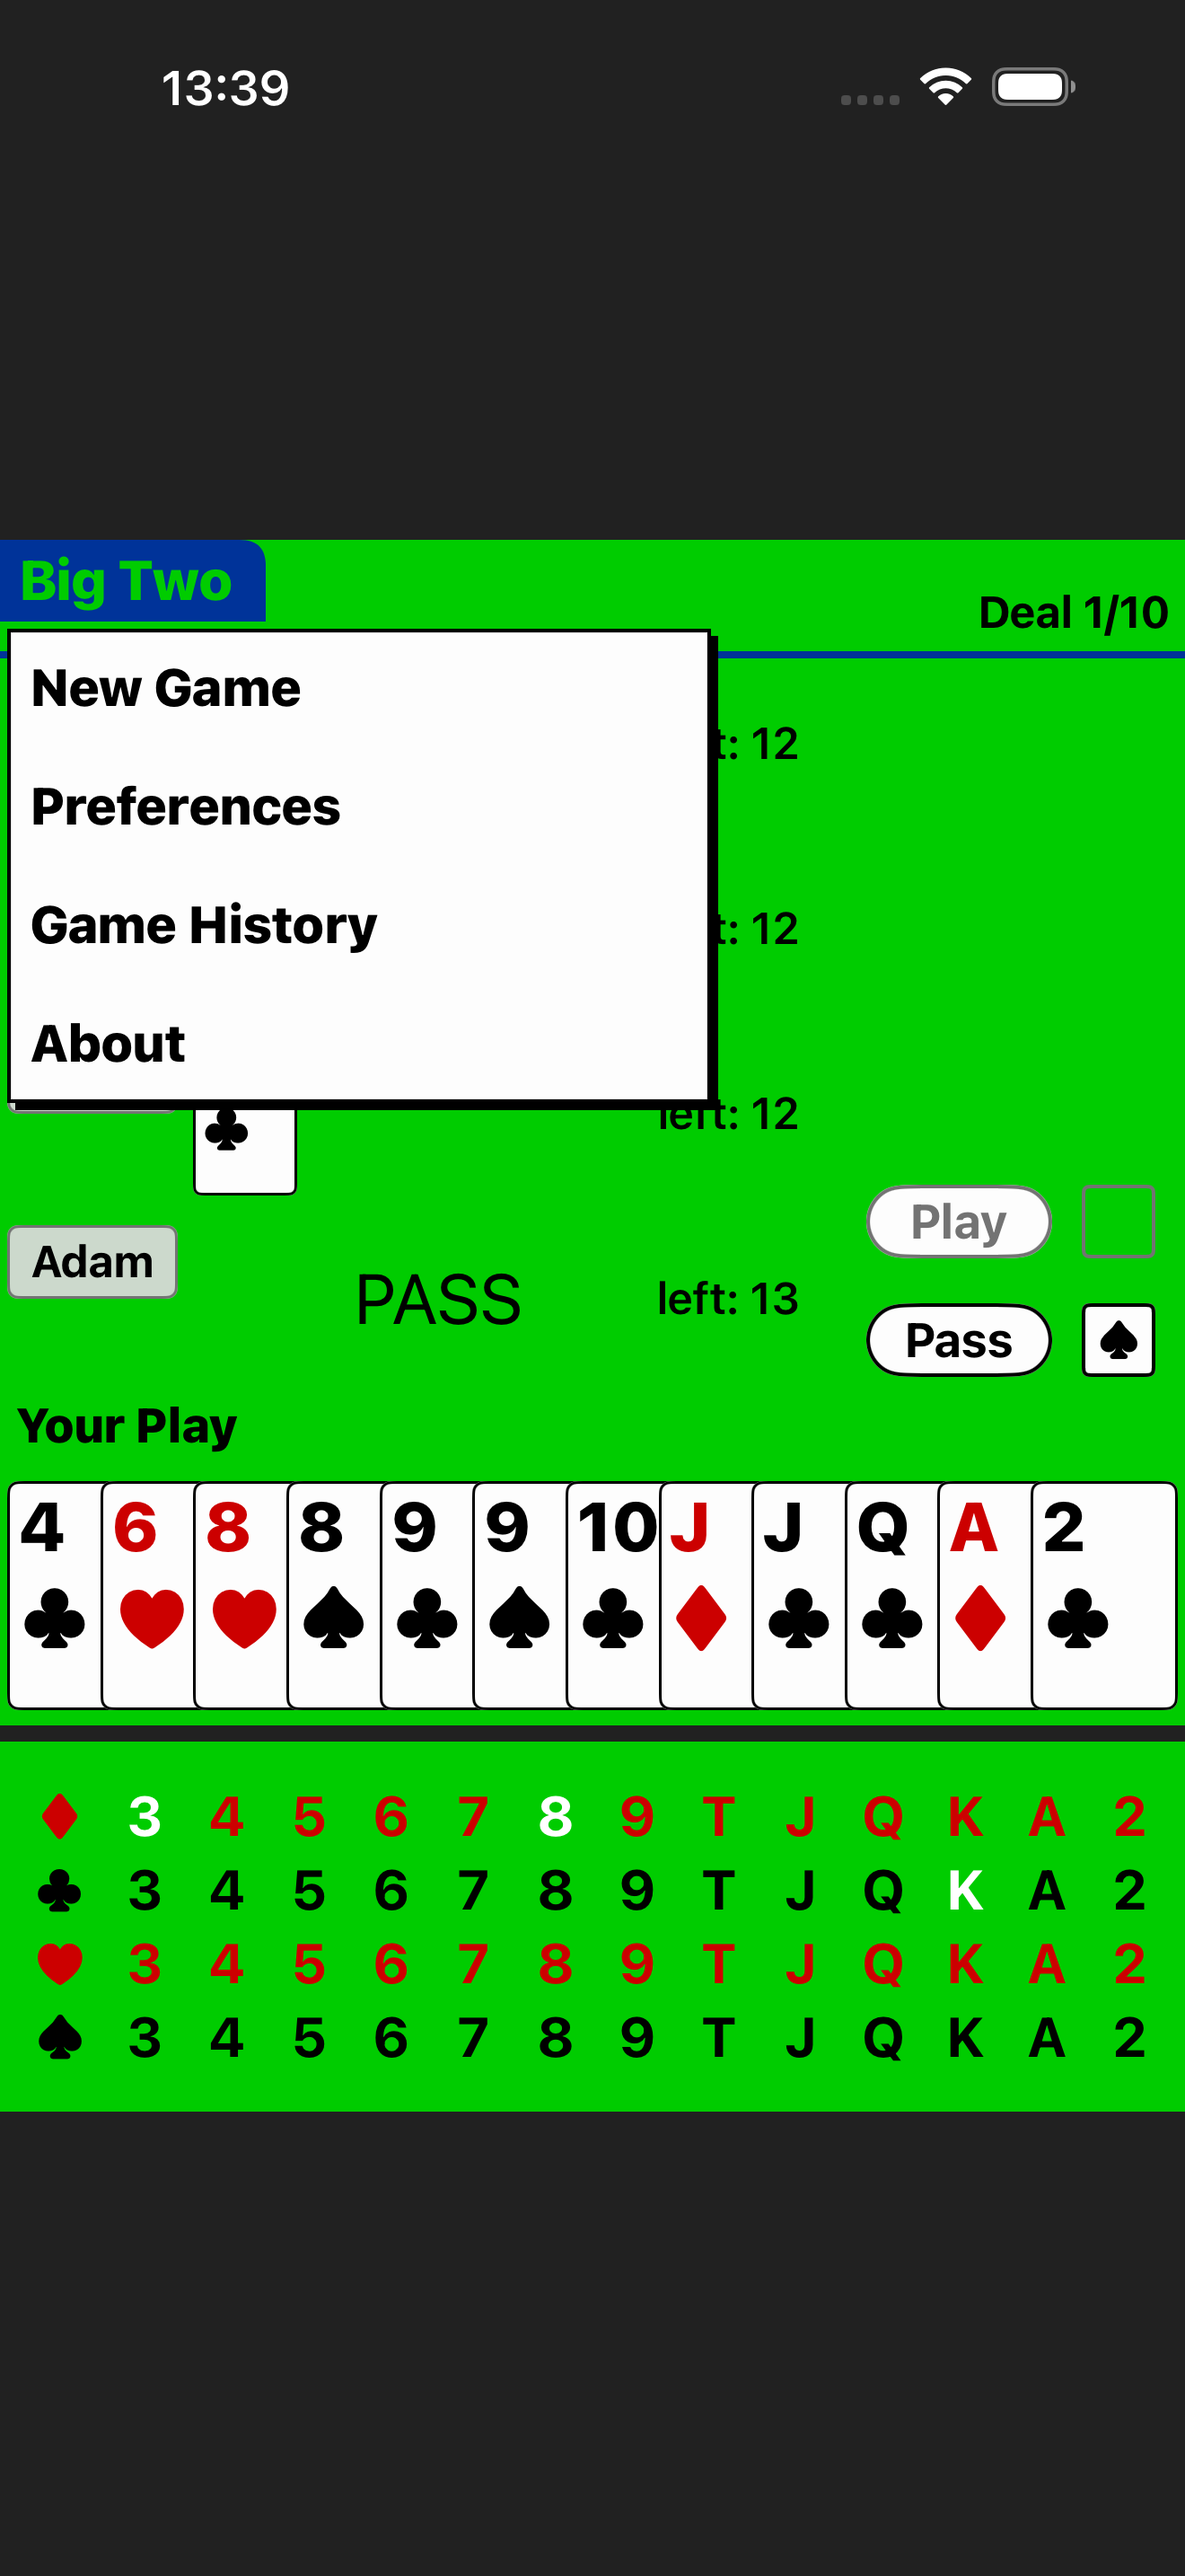
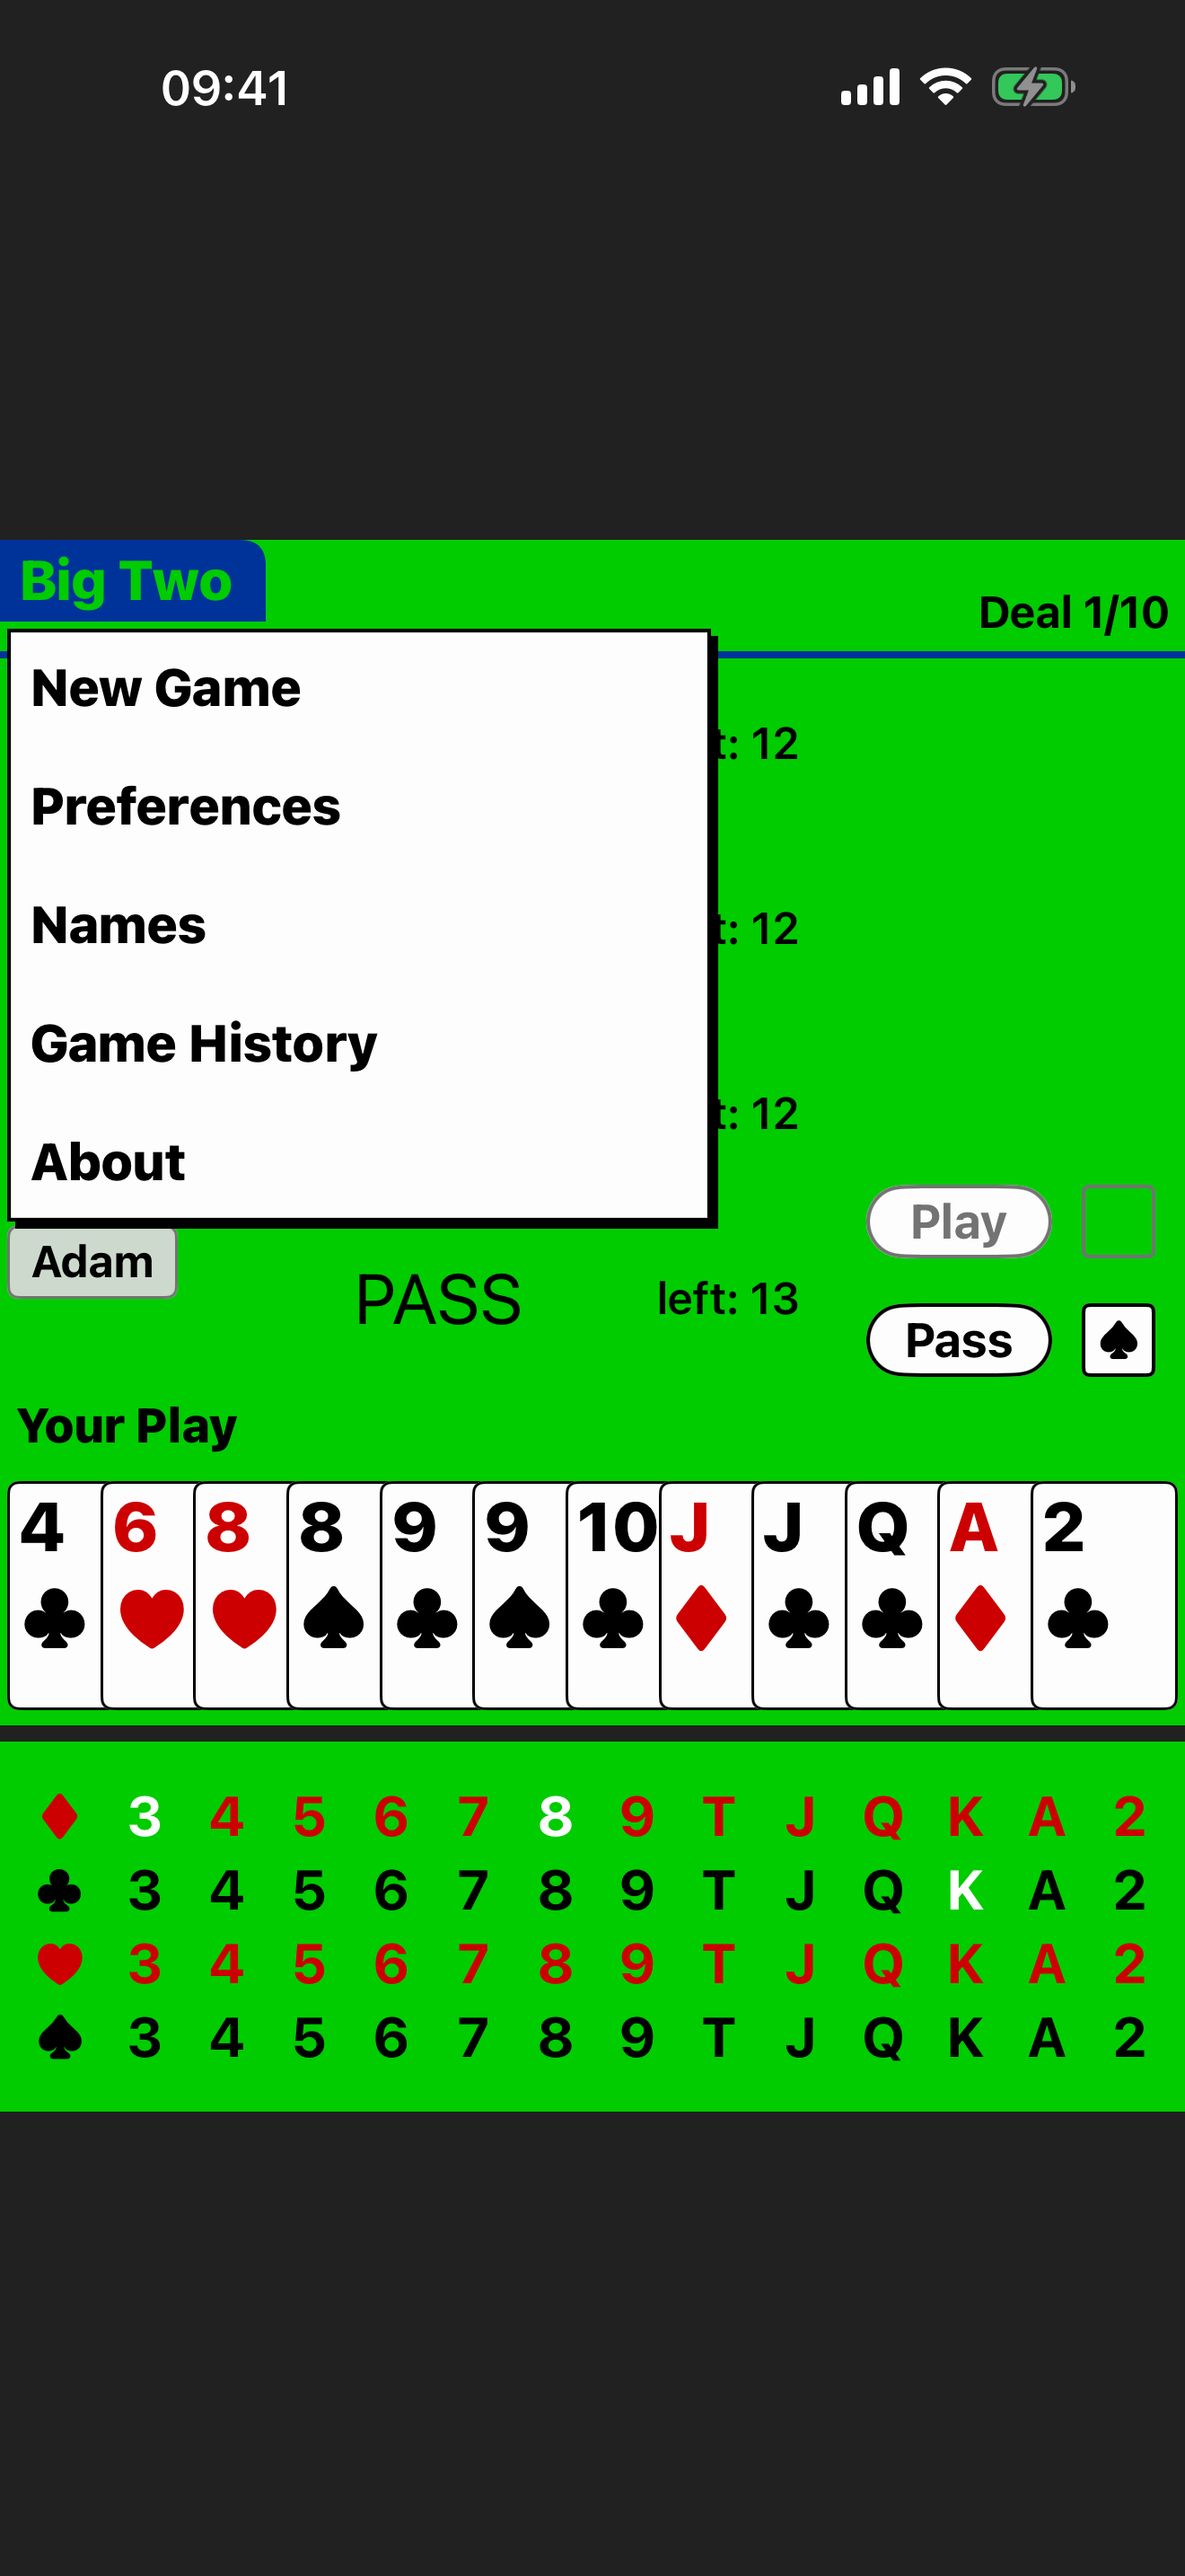
Add Names to the screen tour UI test.
Menu → Names, capture the empty form (do not type — the keyboard
covers the square). Shots are 06_names, 07_about, 08_score,
09_final_score. Restore About's SharedKit existence check.

diff --git a/BigTwoUITests/ScreenTourUITests.swift b/BigTwoUITests/ScreenTourUITests.swift
@@ -37,6 +37,18 @@ final class ScreenTourUITests: XCTestCase {
     app.buttons["pref_ok"].tap()
 
     app.buttons["menu_button"].tap()
+    if !app.buttons["menu_names"].waitForExistence(timeout: 3) {
+      app.buttons["menu_button"].tap()
+    }
+    XCTAssertTrue(app.buttons["menu_names"].waitForExistence(timeout: 5))
+    app.buttons["menu_names"].tap()
+    XCTAssertTrue(app.buttons["names_ok"].waitForExistence(timeout: 5))
+    waitUntilSettled(app.buttons["names_ok"])
+    capture(app, "ios_screen_06_names")
+    app.buttons["names_ok"].tap()
+    XCTAssertTrue(app.buttons["names_ok"].waitForNonExistence(timeout: 5))
+
+    app.buttons["menu_button"].tap()
     if !app.buttons["menu_about"].waitForExistence(timeout: 3) {
       app.buttons["menu_button"].tap()
     }
@@ -44,14 +56,14 @@ final class ScreenTourUITests: XCTestCase {
     app.buttons["menu_about"].tap()
     XCTAssertTrue(app.buttons["about_ok"].waitForExistence(timeout: 5))
     waitUntilSettled(app.buttons["about_ok"])
-    capture(app, "ios_screen_06_about")
+    capture(app, "ios_screen_07_about")
 
     app.terminate()
     let auto = XCUIApplication.bigTwo(["-autoplay", "YES"])
     auto.launch()
     XCTAssertTrue(auto.element("score_sheet").waitForExistence(timeout: 120))
     waitUntilSettled(auto.element("score_sheet"))
-    capture(auto, "ios_screen_07_score")
+    capture(auto, "ios_screen_08_score")
 
     auto.terminate()
     let final = XCUIApplication.bigTwo(["-autoplay", "YES", "-dealsPerGame", "1"])
@@ -59,7 +71,7 @@ final class ScreenTourUITests: XCTestCase {
     XCTAssertTrue(final.element("score_sheet").waitForExistence(timeout: 120))
     waitUntilSettled(final.element("score_sheet"))
     XCTAssertEqual(final.buttons["score_ok"].label, "New Game")
-    capture(final, "ios_screen_08_final_score")
+    capture(final, "ios_screen_09_final_score")
   }
 }
 

diff --git a/BigTwoUITests/GameUITests.swift b/BigTwoUITests/GameUITests.swift
@@ -113,15 +113,8 @@ final class GameUITests: XCTestCase {
     app.buttons["menu_button"].tap()
     XCTAssertTrue(app.buttons["menu_about"].waitForExistence(timeout: 5))
     app.buttons["menu_about"].tap()
-    XCTAssertTrue(app.buttons["about_ok"].waitForExistence(timeout: 5))
-    XCTAssertTrue(app.buttons["about_share"].exists)
-    XCTAssertTrue(app.buttons["about_rate"].exists)
-    XCTAssertTrue(app.buttons["about_report"].exists)
-    XCTAssertTrue(app.buttons["about_x"].exists)
-    XCTAssertFalse(app.buttons["about_sharedkit"].exists)
-    XCTAssertEqual(app.state, .runningForeground)
-    app.buttons["about_ok"].tap()
-    XCTAssertTrue(app.element("hand_3d").waitForExistence(timeout: 5))
+    XCTAssertTrue(app.buttons["about_sharedkit"].waitForExistence(timeout: 5))
+    XCTAssertTrue(app.buttons["about_ok"].exists)
   }
 
   func testSortIcon_togglesBetweenRankAndSuit() {

diff --git a/docs/pr_learnings.md b/docs/pr_learnings.md
@@ -17,7 +17,7 @@ and the evidence.
 
 **`playerNames` 空陣列 = 從未改過。** 寫入 `["","","",""]` 也算「改過」只是每格空白；`hasCustomNames` 看 trim 後有沒有字。語言一換，未改過的座位才套新的 localized default。
 
-**鍵盤會蓋住正方形裡的 OK。** `testNames_customNameShowsOnTheTableAndSurvivesARelaunch` 先點 `Player names` 標題收鍵盤，再點 `names_ok`。座位名 pill 的 identifier 是 `name_<seat>`（Bill 是 `name_1`）。
+**鍵盤會蓋住正方形裡的 OK。** `testNames_customNameShowsOnTheTableAndSurvivesARelaunch` 先點 `Player names` 標題收鍵盤，再點 `names_ok`。座位名 pill 的 identifier 是 `name_<seat>`（Bill 是 `name_1`）。Tour 只開對話框、不打字，否則鍵盤進截圖。編號變成 06_names、07_about、08_score、09_final_score — 舊的 06_about 要刪。
 
 **接到已有 l10n 的 main 時不要整份蓋掉 `Localizable.strings`。** 名稱 key 插進既有表；zh-Hant 還差一點就會把 Share/Rate 那組不屬於這支 PR 的 key 帶進來。
 

diff --git a/docs/test_runs.md b/docs/test_runs.md
@@ -42,3 +42,4 @@ evidence that a test can fail; they stay in the log.
 - 2026-09-19 22:36 — BigTwoKit ✓ 55/55
 - 2026-09-19 22:42 — iOS (iPhone 17 Pro Max, 26.3) GameUITests+ScreenTour 8 passed then runner crash on first launch of `testAbout` / `testIllegalPlay`; rerun ✓ 2/2 those two. Screen tour extracted; score/final_score PNG diffs are deal numbers, not committed.
 - 2026-09-19 23:12 — BigTwoKit ✓ 63/63 (8 PlayerName tests; `resolvedNames` nonisolated). iOS (iPhone 17 Pro Max, 26.3) ✓ 1/1 `testNames_customNameShowsOnTheTableAndSurvivesARelaunch`
+- 2026-09-19 23:18 — iOS (iPhone 17 Pro Max, 26.3) ✓ 1/1 testScreenTour (+ Names; 06_names, 07_about, 08_score, 09_final_score). First run crashed after names_ok; waitForNonExistence then ✓.

diff --git a/CLAUDE.md b/CLAUDE.md
@@ -221,7 +221,7 @@ xcodebuild test -project BigTwo.xcodeproj -scheme BigTwo \
 2. **Log** one line to `docs/test_runs.md` — tests, pass/fail count, device.
 3. **Look at the images.** Every visual bug on this branch passed its tests first.
 
-Screen-tour names: `ios_screen_NN_<name>` (lead, selected, trick, menu, preferences, about, score, final_score). `06_about` is the in-app SharedKit Support dialog after tapping `about_sharedkit`.
+Screen-tour names: `ios_screen_NN_<name>` (lead, selected, trick, menu, preferences, names, about, score, final_score).
 
 ## Simulator
 
